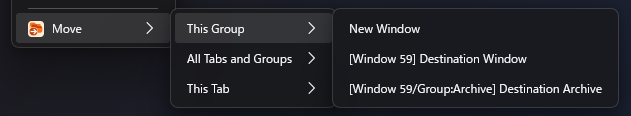
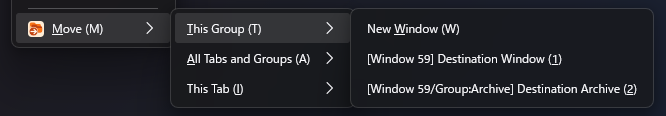
AMO用スクリーンショットを撮り直す

diff --git a/tools/capture-amo-screenshots.js b/tools/capture-amo-screenshots.js
@@ -768,6 +768,14 @@ async function prepareMenuCapture ({ shallow }) {
         })
       }
     }
+    const destinationTitlesReady = await waitUntil(async () => {
+      const tabs = await browser.tabs.query({ windowId: targetWindow.id })
+      const titles = tabs.map(tab => tab.title)
+      return args[0].destinationTitles.every(title => titles.includes(title))
+    })
+    if (!destinationTitlesReady) {
+      throw new Error('Menu destination tabs did not load their titles')
+    }
     await browser.windows.update(sourceTab.windowId, { focused: true })
     await wait(600)
     return {
@@ -778,6 +786,10 @@ async function prepareMenuCapture ({ shallow }) {
     archive: pageUrl(SCREENSHOT_LOCALE.tabs.archive),
     archiveGroup: SCREENSHOT_LOCALE.groups.archive,
     destination: pageUrl(SCREENSHOT_LOCALE.tabs.destination),
+    destinationTitles: [
+      SCREENSHOT_LOCALE.tabs.destination,
+      SCREENSHOT_LOCALE.tabs.archive,
+    ],
     researchGroup: SCREENSHOT_LOCALE.groups.research,
     shallow,
   })
@@ -883,6 +895,9 @@ async function captureNotificationScreenshot () {
 
   await clearStorage()
   await ensureNotificationPermission()
+  await driver.manage().window().maximize()
+  await driver.get(pageUrl(SCREENSHOT_LOCALE.tabs.source))
+  const crop = await getNotificationCrop()
   await runExtensionScript(`
     const sourceTabs = []
     let targetWindow
@@ -924,8 +939,7 @@ async function captureNotificationScreenshot () {
     target: pageUrl(SCREENSHOT_LOCALE.tabs.notificationTarget),
   })
 
-  await captureScreenCrop(screenshotPath('notification'),
-    await getNotificationCrop())
+  await captureScreenCrop(screenshotPath('notification'), crop)
 }
 
 async function main () {
